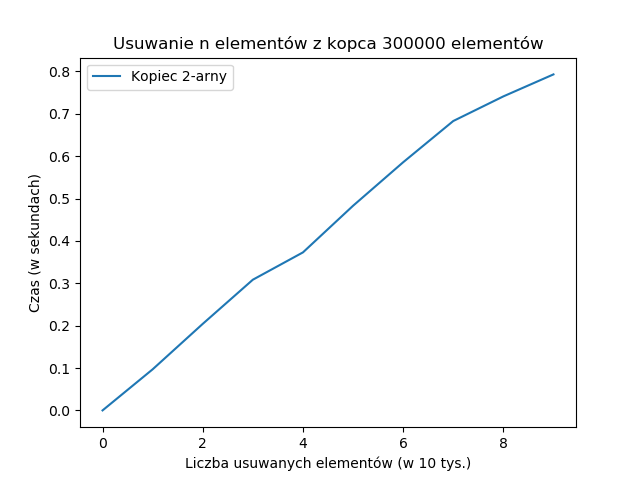
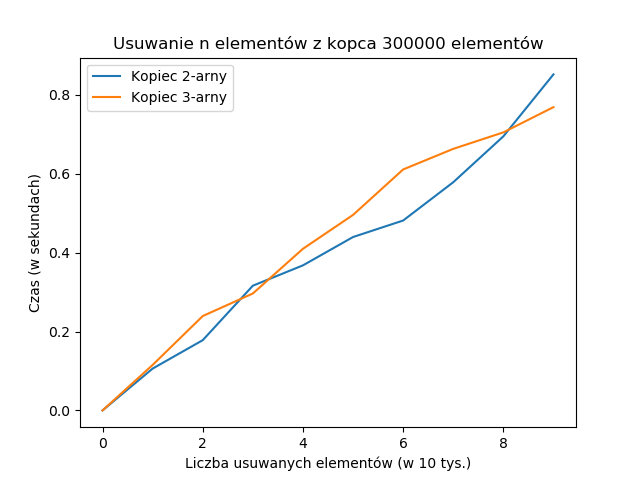
Kopiec 3-arny, wypisywanie do xml, testy

diff --git a/Lab3/heap3.py b/Lab3/heap3.py
@@ -1,0 +1,97 @@
+from xml.dom import minidom
+
+
+def insert(array, value):
+    array.append(value)
+    current = len(array) - 1
+    while current != 0:
+        if array[current] < array[current//3]:
+            array[current], array[current//3] = array[current//3], array[current]
+        current //= 3
+
+
+def remove(array):
+    array[0] = array[-1]
+    array.pop()
+    heapify(array, 0)
+
+
+def heapify(array, index):
+    if len(array) < 5 and index == 0:
+        if 3*index + 3 < len(array):
+            temp = min(array[3*index + 1], array[3*index + 2], array[3*index + 3])
+            if array[index] > temp:
+                if temp == array[3*index + 1]:
+                    array[index], array[3*index + 1] = array[3*index + 1], array[index]
+                    heapify(array, 3*index + 1)
+                elif temp == array[3*index + 2]:
+                    array[index], array[3*index + 2] = array[3*index + 2], array[index]
+                    heapify(array, 3*index + 2)
+                elif temp == array[3*index + 3]:
+                    array[index], array[3*index + 3] = array[3*index + 3], array[index]
+                    heapify(array, 3*index + 3)
+    else:
+        if 3*index + 2 < len(array):
+            temp = min(array[3*index], array[3*index + 1], array[3*index + 2])
+            if array[index] > temp:
+                if temp == array[3*index]:
+                    array[index], array[3*index] = array[3*index], array[index]
+                    heapify(array, 3*index)
+                elif temp == array[3*index + 1]:
+                    array[index], array[3*index + 1] = array[3*index + 1], array[index]
+                    heapify(array, 3*index + 1)
+                elif temp == array[3*index + 2]:
+                    array[index], array[3*index + 2] = array[3*index + 2], array[index]
+                    heapify(array, 3*index + 2)
+
+
+def printXML(root, fileName):
+    doc = minidom.Document()
+    node = doc.createElement("root")
+    node.setAttribute('value', str(root[0]))
+    doc.appendChild(node)
+    if 1 < len(root):
+        printNode(1, node, doc)
+    if 2 < len(root):
+        printNode(2, node, doc)
+    if 3 < len(root):
+        printNode(3, node, doc)
+    xml_str = doc.toprettyxml(indent='\t')
+    with open(fileName, "w") as f:
+        f.write(xml_str)
+
+
+def printNode(node, parent, doc):
+    child = doc.createElement("child")
+    child.setAttribute('value', str(heap[node]))
+    parent.appendChild(child)
+    if 3*node < len(heap):
+        printNode(3*node, child, doc)
+    if 3*node + 1 < len(heap):
+        printNode(3*node + 1, child, doc)
+    if 3*node + 2 < len(heap):
+        printNode(3*node + 2, child, doc)
+
+
+heap = []
+insert(heap, 5)
+insert(heap, 3)
+insert(heap, 17)
+insert(heap, 10)
+insert(heap, 84)
+insert(heap, 19)
+insert(heap, 6)
+insert(heap, 22)
+insert(heap, 9)
+printXML(heap, "heap3.xml")
+print(heap)
+remove(heap)
+print(heap)
+remove(heap)
+print(heap)
+remove(heap)
+print(heap)
+remove(heap)
+print(heap)
+remove(heap)
+print(heap)

diff --git a/Lab3/testing.py b/Lab3/testing.py
@@ -1,4 +1,5 @@
 import heap2
+import heap3
 import random
 import time
 import matplotlib.pyplot as plt
@@ -32,19 +33,49 @@ def testRemove2():
     return times
 
 
+def testInsertion3():
+    times = []
+    for i in range(10):
+        heap = [-1]
+        start = time.perf_counter()
+        for j in range(i*10000):
+            heap3.insert(heap, j)
+        stop = time.perf_counter()
+        times.append(stop-start)
+    return times
+
+
+def testRemove3():
+    times = []
+    for i in range(10):
+        heap = [-1]
+        for j in numbers:
+            heap2.insert(heap, j)
+        start = time.perf_counter()
+        for j in range(i*10000):
+            heap3.remove(heap)
+        stop = time.perf_counter()
+        times.append(stop-start)
+    return times
+
+
 if __name__ == "__main__":
     insertionTimes2 = testInsertion2()
     removeTimes2 = testRemove2()
+    insertionTimes3 = testInsertion3()
+    removeTimes3 = testRemove3()
     plt.plot(insertionTimes2)
+    plt.plot(insertionTimes3)
     plt.title("Tworzenie kopca n elementów")
     plt.xlabel("Liczba elementów (w 10 tys.)")
     plt.ylabel("Czas (w sekundach)")
-    plt.legend(["Kopiec 2-arny"])
+    plt.legend(["Kopiec 2-arny", "Kopiec 3-arny"])
     plt.savefig("insertionPlot.png")
     plt.clf()
     plt.plot(removeTimes2)
+    plt.plot(removeTimes3)
     plt.title("Usuwanie n elementów z kopca 300000 elementów")
     plt.xlabel("Liczba usuwanych elementów (w 10 tys.)")
     plt.ylabel("Czas (w sekundach)")
-    plt.legend(["Kopiec 2-arny"])
+    plt.legend(["Kopiec 2-arny", "Kopiec 3-arny"])
     plt.savefig("removePlot.png")

diff --git a/Lab3/heap2.py b/Lab3/heap2.py
@@ -1,3 +1,6 @@
+from xml.dom import minidom
+
+
 def insert(array, value):
     array.append(value)
     current = len(array) - 1
@@ -23,6 +26,30 @@ def heapify(array, index):
                 heapify(array, 2*index + 1)
 
 
+def printXML(root, fileName):
+    doc = minidom.Document()
+    node = doc.createElement("root")
+    node.setAttribute('value', str(root[1]))
+    doc.appendChild(node)
+    if 2 < len(root):
+        printNode(2, node, doc)
+    if 3 < len(root):
+        printNode(3, node, doc)
+    xml_str = doc.toprettyxml(indent='\t')
+    with open(fileName, "w") as f:
+        f.write(xml_str)
+
+
+def printNode(node, parent, doc):
+    child = doc.createElement("child")
+    child.setAttribute('value', str(heap[node]))
+    parent.appendChild(child)
+    if 2*node < len(heap):
+        printNode(2*node, child, doc)
+    if 2*node + 1 < len(heap):
+        printNode(2*node + 1, child, doc)
+
+
 heap = [-1]
 insert(heap, 5)
 insert(heap, 3)
@@ -33,6 +60,7 @@ insert(heap, 19)
 insert(heap, 6)
 insert(heap, 22)
 insert(heap, 9)
+printXML(heap, "heap2.xml")
 print(heap)
 remove(heap)
 print(heap)
